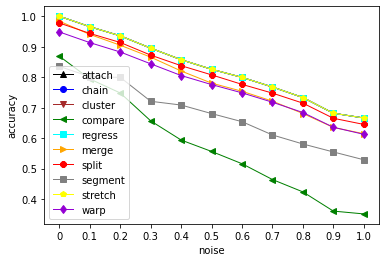
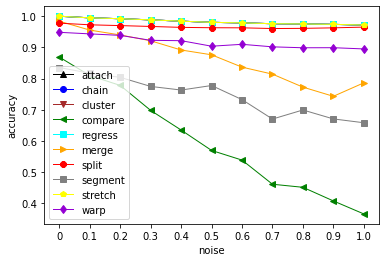
Completed

diff --git a/README.md b/README.md
@@ -1,1 +1,40 @@
 # CS421-project1
+
+**Project 1: Automated Eye Tracking Data Correction**<br>
+Forked from https://github.com/nalmadi/CS421-project1
+Original source: https://github.com/jwcarr/drift 
+
+### Abstract
+For project 1, I replicated work from the paper *Carr, Jon W., et al. "Algorithms for the automated correction of vertical drift in eye-tracking data." Behavior Research Methods 54.1 (2022): 287-310.* by generating simulations of 5 different types of errors(noise, slope, shift, within line regression, and between line regression), and then running the 10 novel alrogithms provided in the paper. I was able to analyse these results and get a better understanding of vertical drift in eye-tracking data.
+
+### Results
+For each of the 5 errors (noise, slope, shift, within line regression, between line regression) that were discussed in the essay, I ran 10 correction algorithms with on them error magnitude/probability 100 times.
+
+For the noise error, *split*, *warp*, *compare*, and *segment* were consistent across different probabilities of errors, with none of them dropping significantly. The best algorithm was *split* which performed the best with the highest mean accuracy and consistency. *segment* has the lowest mean accuracy.
+![Fig 1. Noise error](/results/noise.png "Noise error Results")
+
+For slope errors, the best performances were apparent *segment*, and *warp* were consistent across different probabilities of errors, and *segment* did the best overall. The rest of the algorithms did not perform very well with the slope error with many of them declining in accuracy as the slope becomes more extreme.
+![Fig 2. Slope error](/results/slope.png "Slope error Results")
+
+For shift errors, the performance of *cluster*, *merge*, and *segment* are very consistent across different probabilities of errors. Surprisingly, warp is not very accurate when it's shifting upward and quite accurate it's shifting downward. The accuracy for other algorithms declines as the shift becomes more extreme. The *stretch* algorithm had two dips but had a lot of fluctuation across the board. *cluster* performs the best with the highest mean accuracy and consistency and *split* has the lowest mean accuracy.
+![Fig 3. Shift error](/results/shift.png "Shift error results")
+
+For within line regression, the performance of all algorithms delinces as the regression becomes more frequent which was interesting. *attach*, *cluster*, *regress*, and *stretch* perform the best with the highest mean accuracy. *compare* has the lowest mean accuracy.
+![Fig 4. Within-line regression error](/results/within.png "Within-line regression error")
+
+For between-line regression errors, the performance of all algorithms declines dramatically as soon as between-line regression appears, and declines more as the regression becomes more frequent. Although all of them decline, *attach*, *cluster*, *regress*, *stretch*, and *chain* performed slightly better than the others.
+![Fig 5. Between-line regression error](/results/between.png "Between-line regression error")
+
+
+### Discussions
+
+Overall, my replication was consistent with the patterns presented in the paper. 
+
+In addition, it is hard to say which algorithm works best because as you could see with different corrections. However, the results I got for *cluster* was not consistent with the paper, the paper described *cluster* as being quite bad but it performed pretty well on the majority of errors.
+
+For two regression errors, the accuracy of all algorithms declines which again is different to that in the paper which may be due to using simulated data and the way the methods were created.
+
+### References
+https://github.com/jwcarr/drift
+https://github.com/nalmadi/CS421-project1
+Carr, Jon W., et al. "Algorithms for the automated correction of vertical drift in eye-tracking data.
